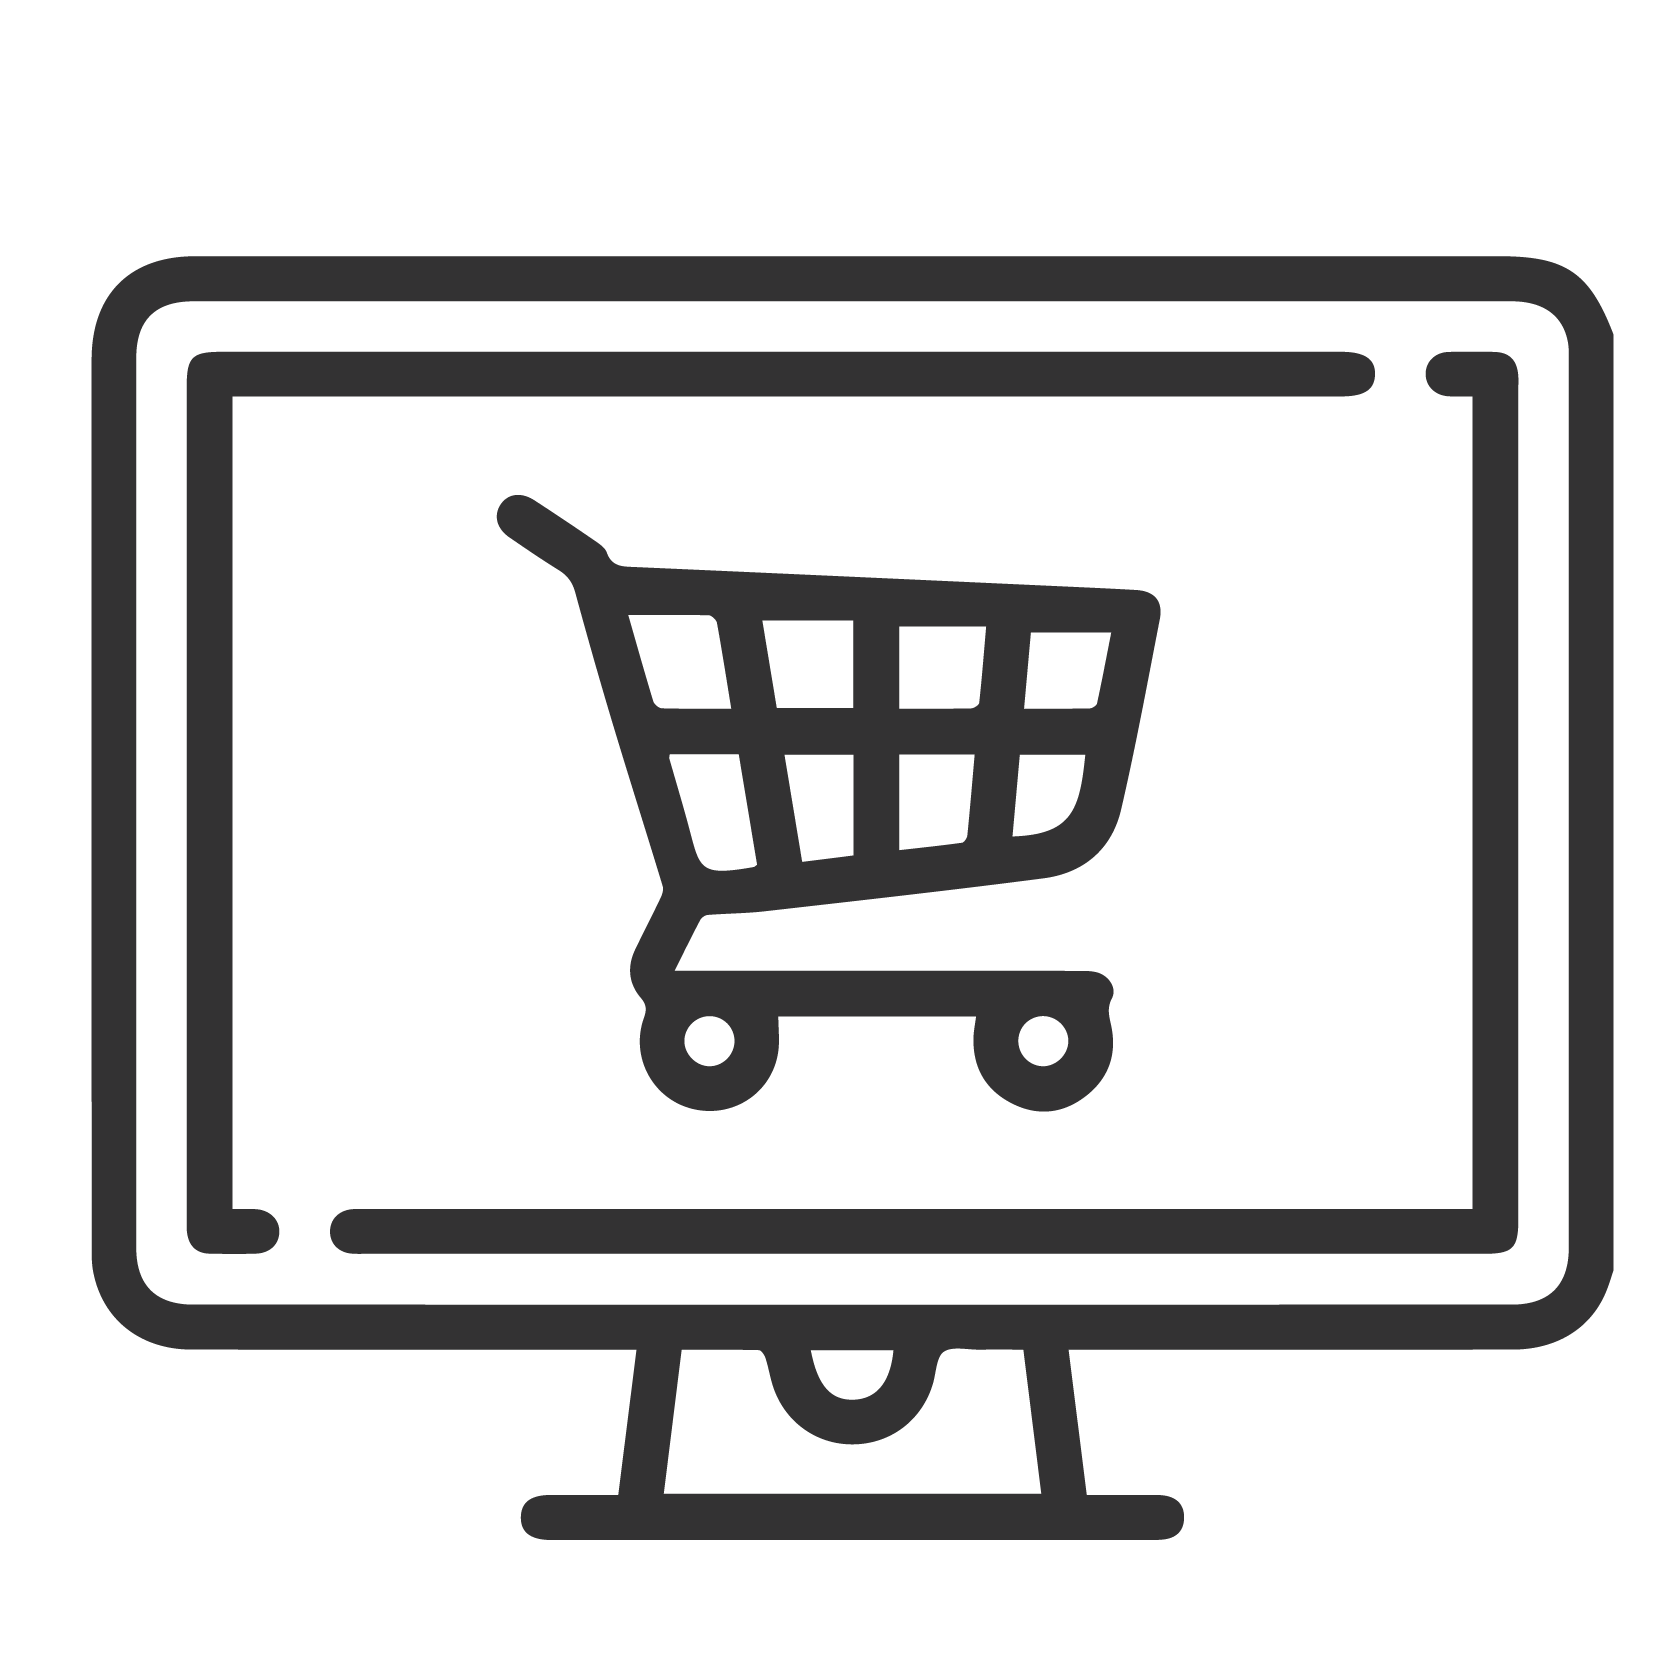
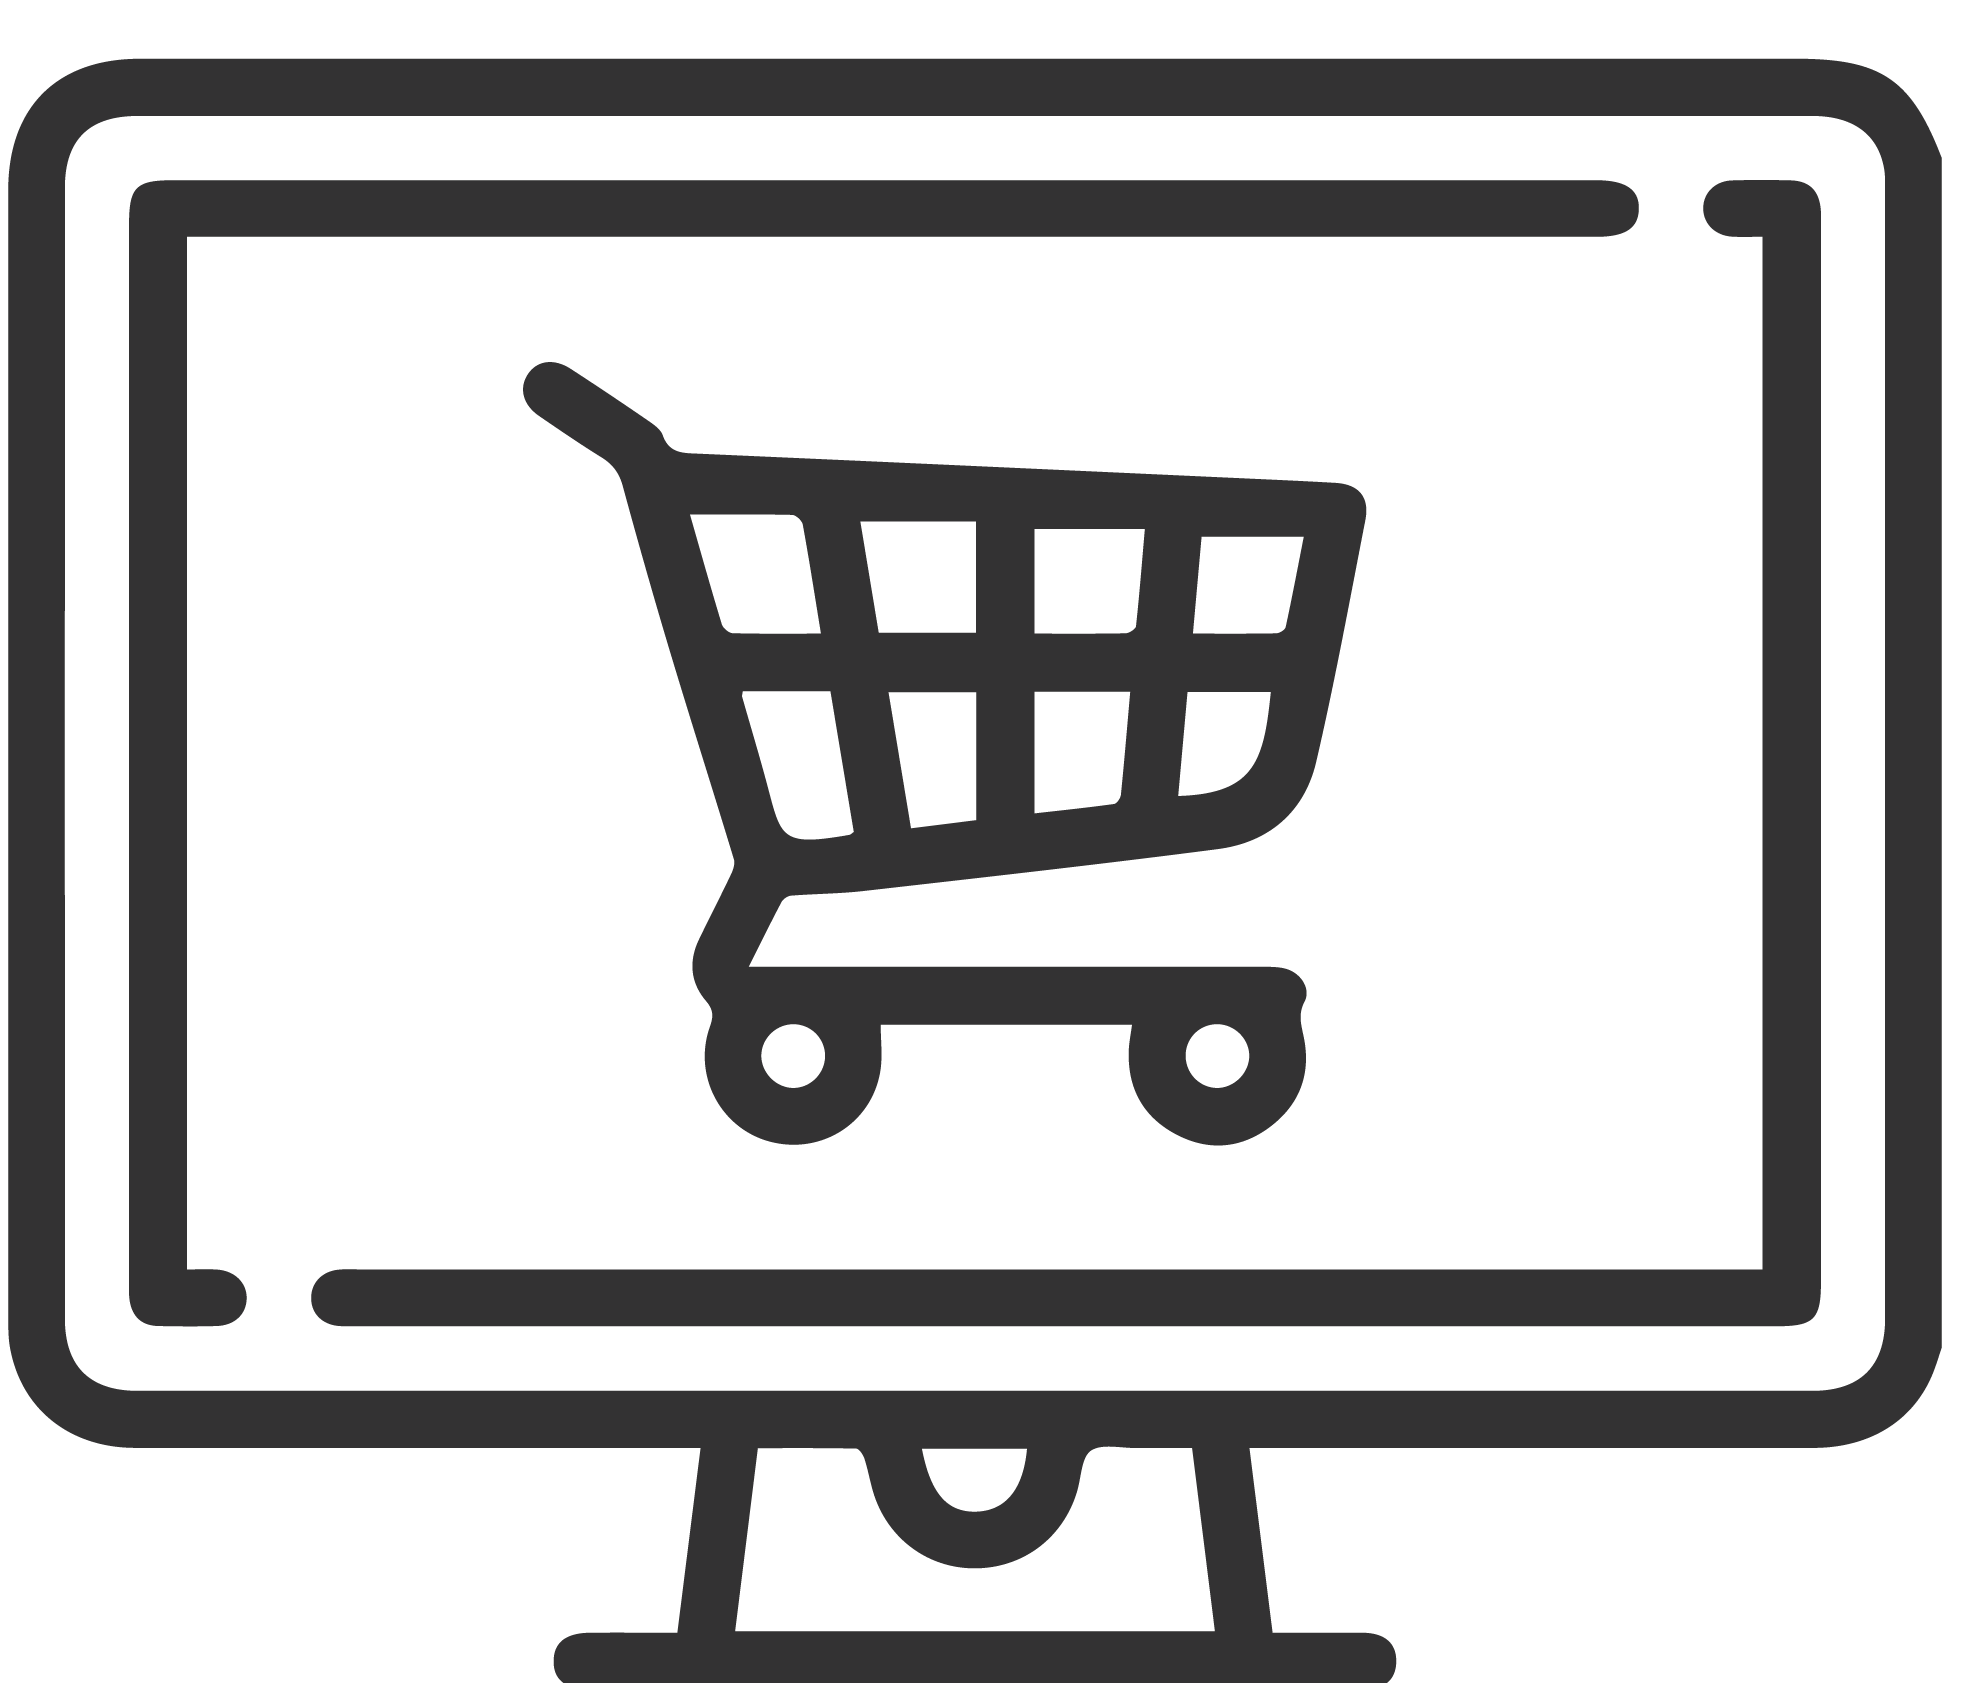
parallax image fixed

diff --git a/landing_page/templates/landing_page/index.html b/landing_page/templates/landing_page/index.html
@@ -20,7 +20,7 @@
 
   <style>
   .parallaxImage{
-    background-image: url('{% static 'img/Recursos-10.png' %}');
+    background-image: url('{% static 'img/3.jpg' %}');
   }
   .hero-container-bg{
     background-image: url('{% static 'img/Recursos-02.png' %}');
@@ -136,7 +136,7 @@
               <p>Un emprendedor que toma riesgos no puede negarse la posibilidad de contarle al mundo entero lo que hace, iniciar su presencia en internet hace parte de su estrategia primoridial.</p>
           </div>
           <div class="col-lg-3 col-sm-12 text-center">
-              <img class="w-50 pb-4" src="{% static 'img/Recursos-04.png' %}">
+              <img class="pb-4" width="56%" src="{% static 'img/Recursos-04.png' %}">
               <h4 class="titles">E-COMMERCE</h4>
               <hr class="new5" />
               <p>Vender por internet es sencillo y rápido. Cuando una empresa elige ampliar su proyección de ventas y conquistar nuevos clintes, es el momento de tener una tienda online o sitio e-commerce. Es el momento perfecto para que le cuentes al mundo lo que vendes permitiéndole a tus nuevos clientes formas de pago seguros por tu tienda online.</p>

diff --git a/landing_page/static/css/main.css b/landing_page/static/css/main.css
@@ -125,7 +125,7 @@ body {
 }
 
 .parallaxImage {
-    background-size: 150%;
+    background-size: cover;
     background-attachment: fixed;
     background-position: center;
     background-repeat: no-repeat;
